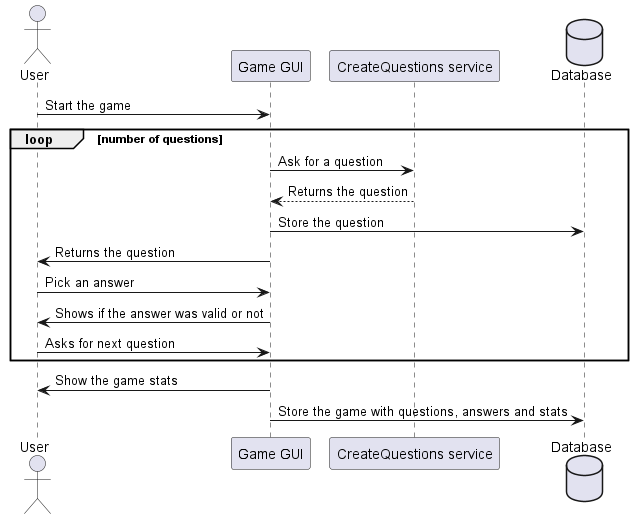
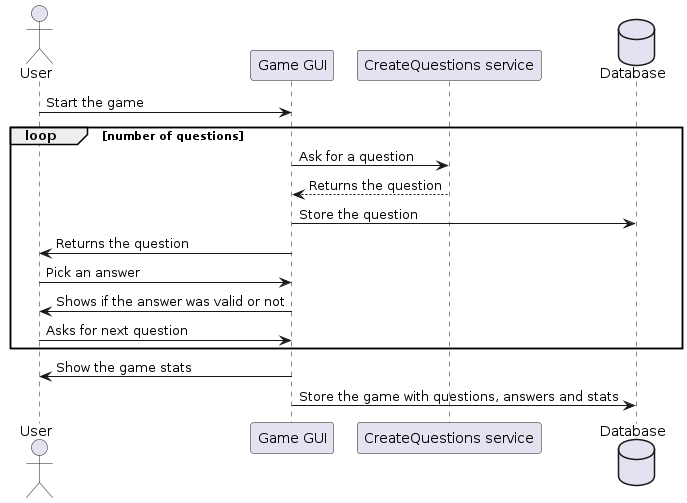
Updates

diff --git a/index.html b/index.html
@@ -512,7 +512,7 @@ body.book #toc,body.book #preamble,body.book h1.sect0,body.book .sect1>h2{page-b
 </ul>
 </li>
 <li><a href="#section-glossary">12. Glossary</a></li>
-<li><a href="#section-testability">13. Testability in WIQ2024</a>
+<li><a href="#section-testability">13. Testability</a>
 <ul class="sectlevel2">
 <li><a href="#_load_testing">13.1. Load Testing</a></li>
 </ul>
@@ -1274,7 +1274,7 @@ For documentation of your own system you use better the <em>plain</em> version.<
 </div>
 <div class="imageblock">
 <div class="content">
-<img src="./images/Start%20a%20game.png" alt="Start a game" width="633" height="519">
+<img src="./images/Start%20a%20game.png" alt="Start a game" width="687" height="503">
 </div>
 </div>
 <div style="page-break-after: always;"></div>
@@ -1642,7 +1642,7 @@ With "decisions" we mean selecting one alternative based on given criteria.</p>
 </div>
 </div>
 <div class="sect1">
-<h2 id="section-testability">13. Testability in WIQ2024</h2>
+<h2 id="section-testability">13. Testability</h2>
 <div class="sectionbody">
 <div class="paragraph">
 <p>Testability is a crucial aspect of software development. It refers to the ease with which a software system can be tested to ensure its correctness and reliability. By writing tests, developers can verify that their code behaves as expected and identify any potential issues or bugs. There are various types of tests that can be performed, such as unit tests, integration tests, and end-to-end tests. Unit tests focus on testing individual components or functions in isolation, while integration tests verify the interaction between different components. End-to-end tests simulate real-world scenarios to ensure the entire system functions correctly.</p>
@@ -1713,7 +1713,7 @@ With "decisions" we mean selecting one alternative based on given criteria.</p>
 <div id="footer">
 <div id="footer-text">
 Version 8.2 EN<br>
-Last updated 2024-04-29 03:39:28 +0200
+Last updated 2024-05-05 22:17:06 +0200
 </div>
 </div>
 </body>
